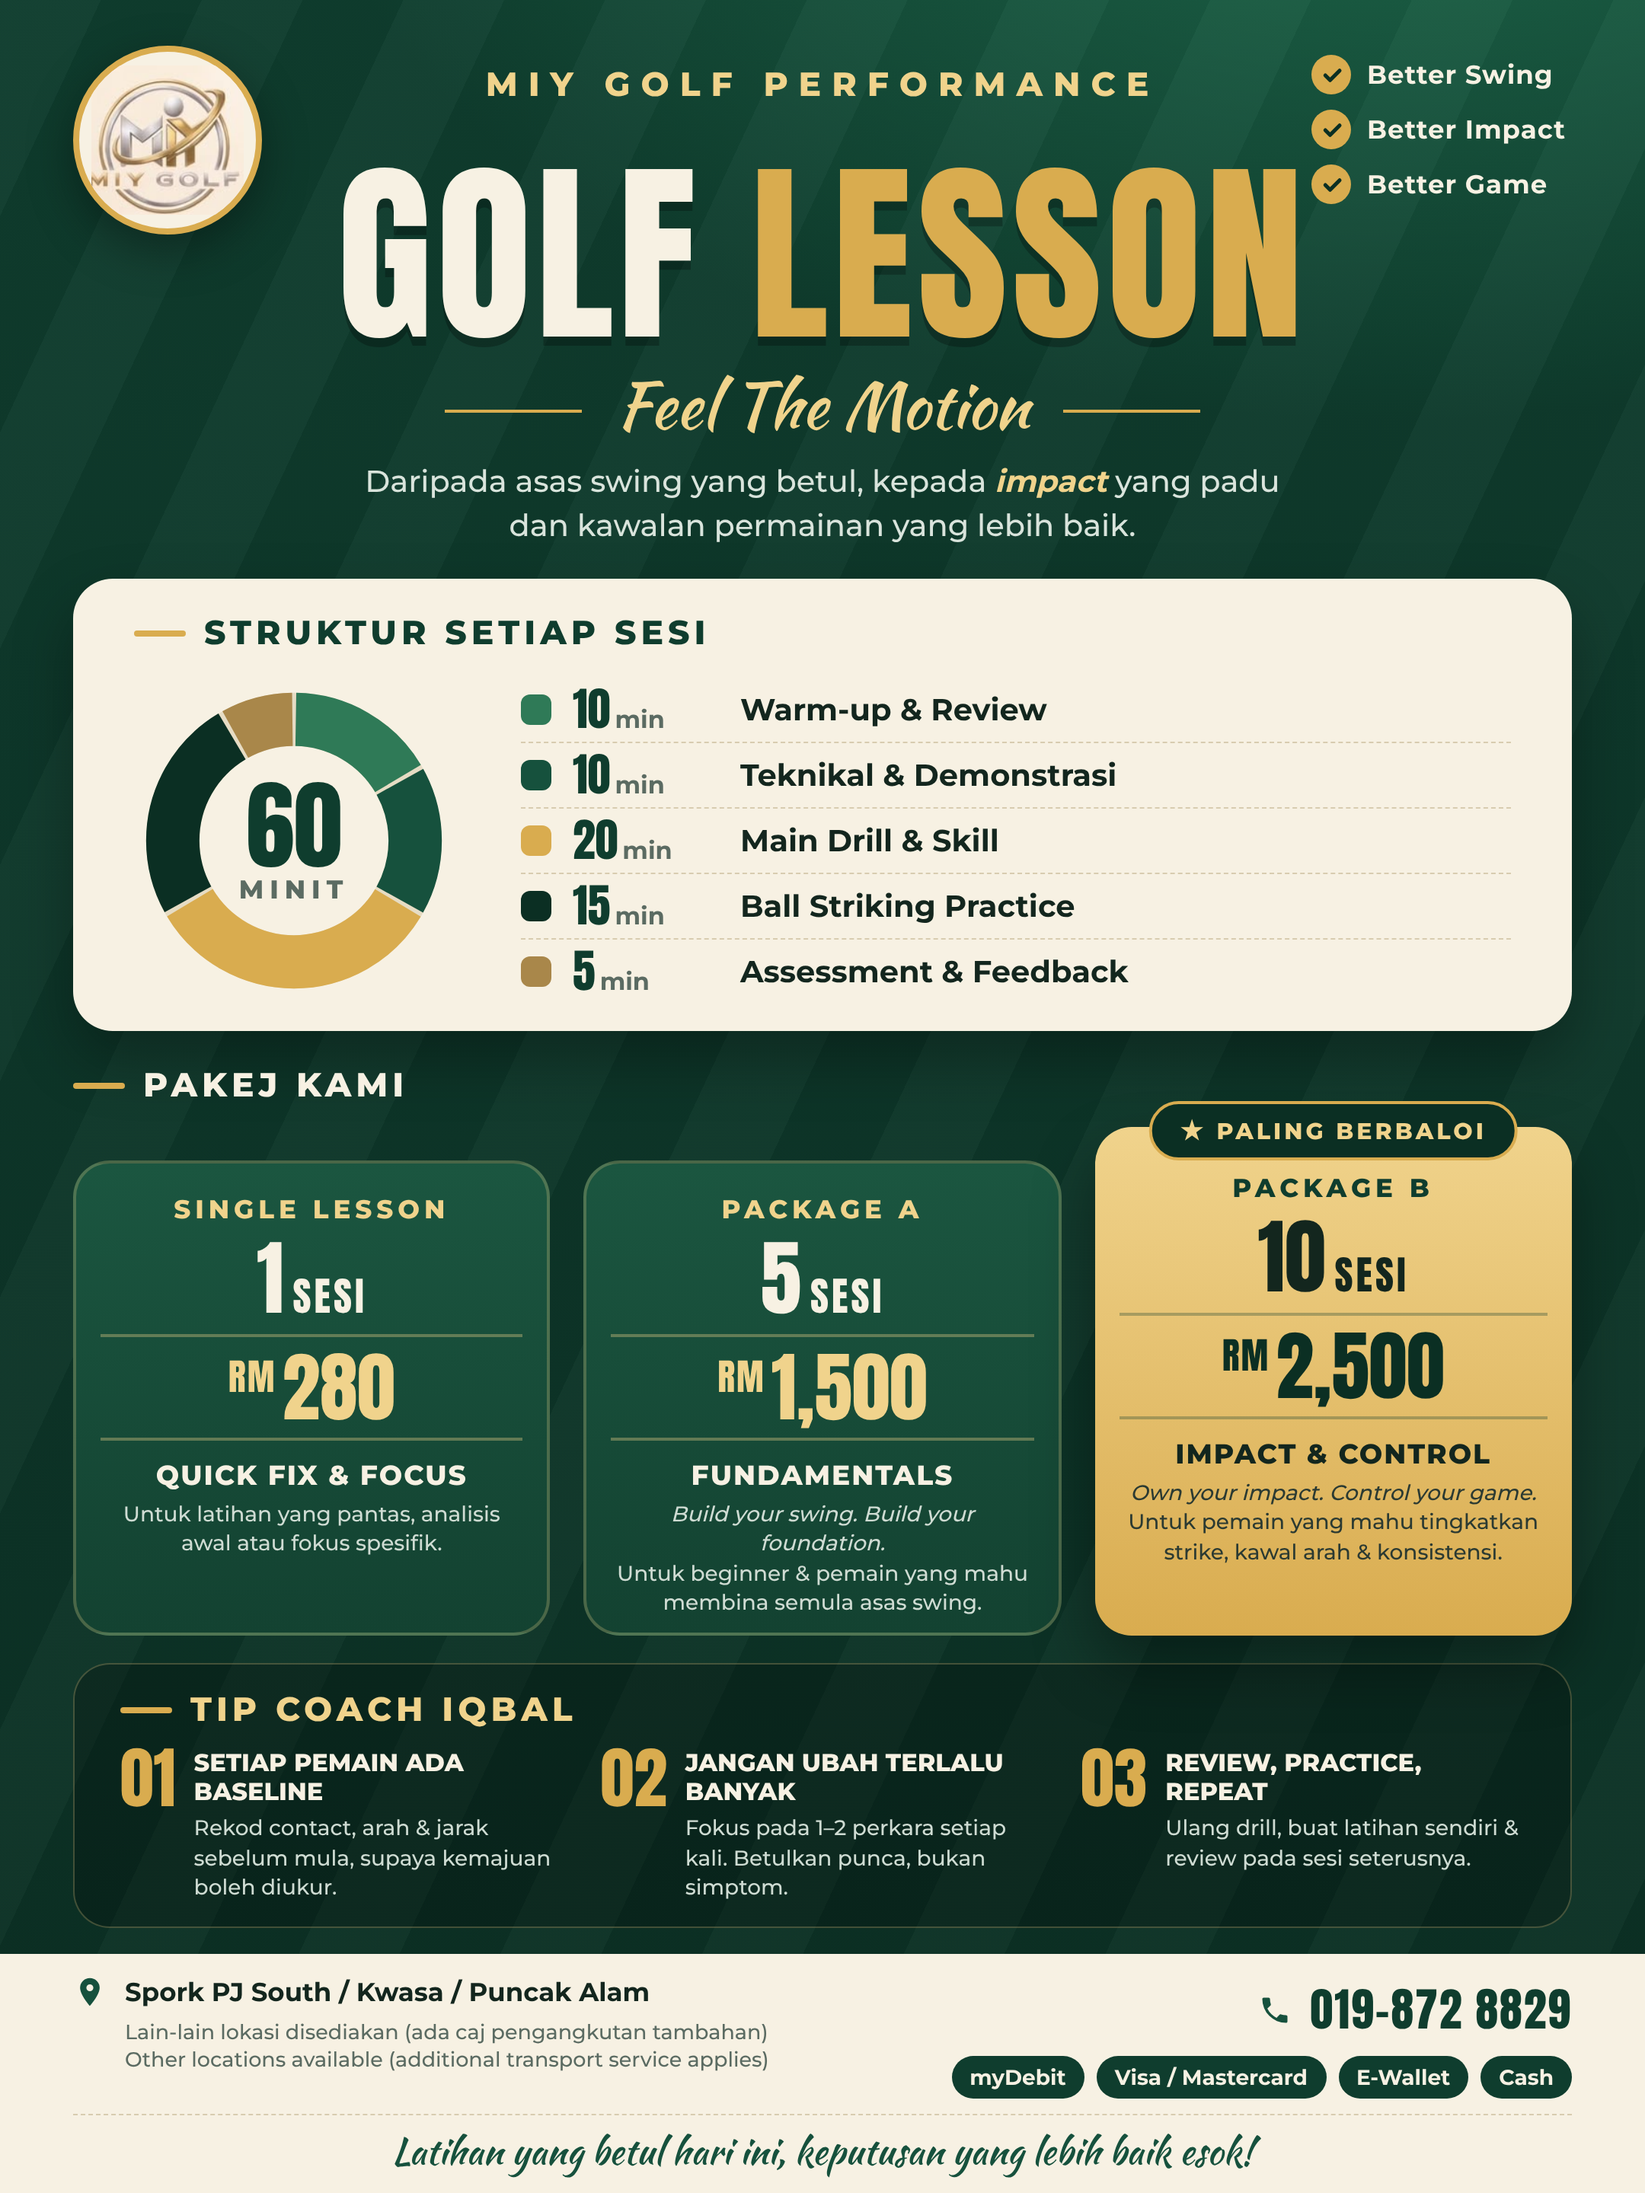
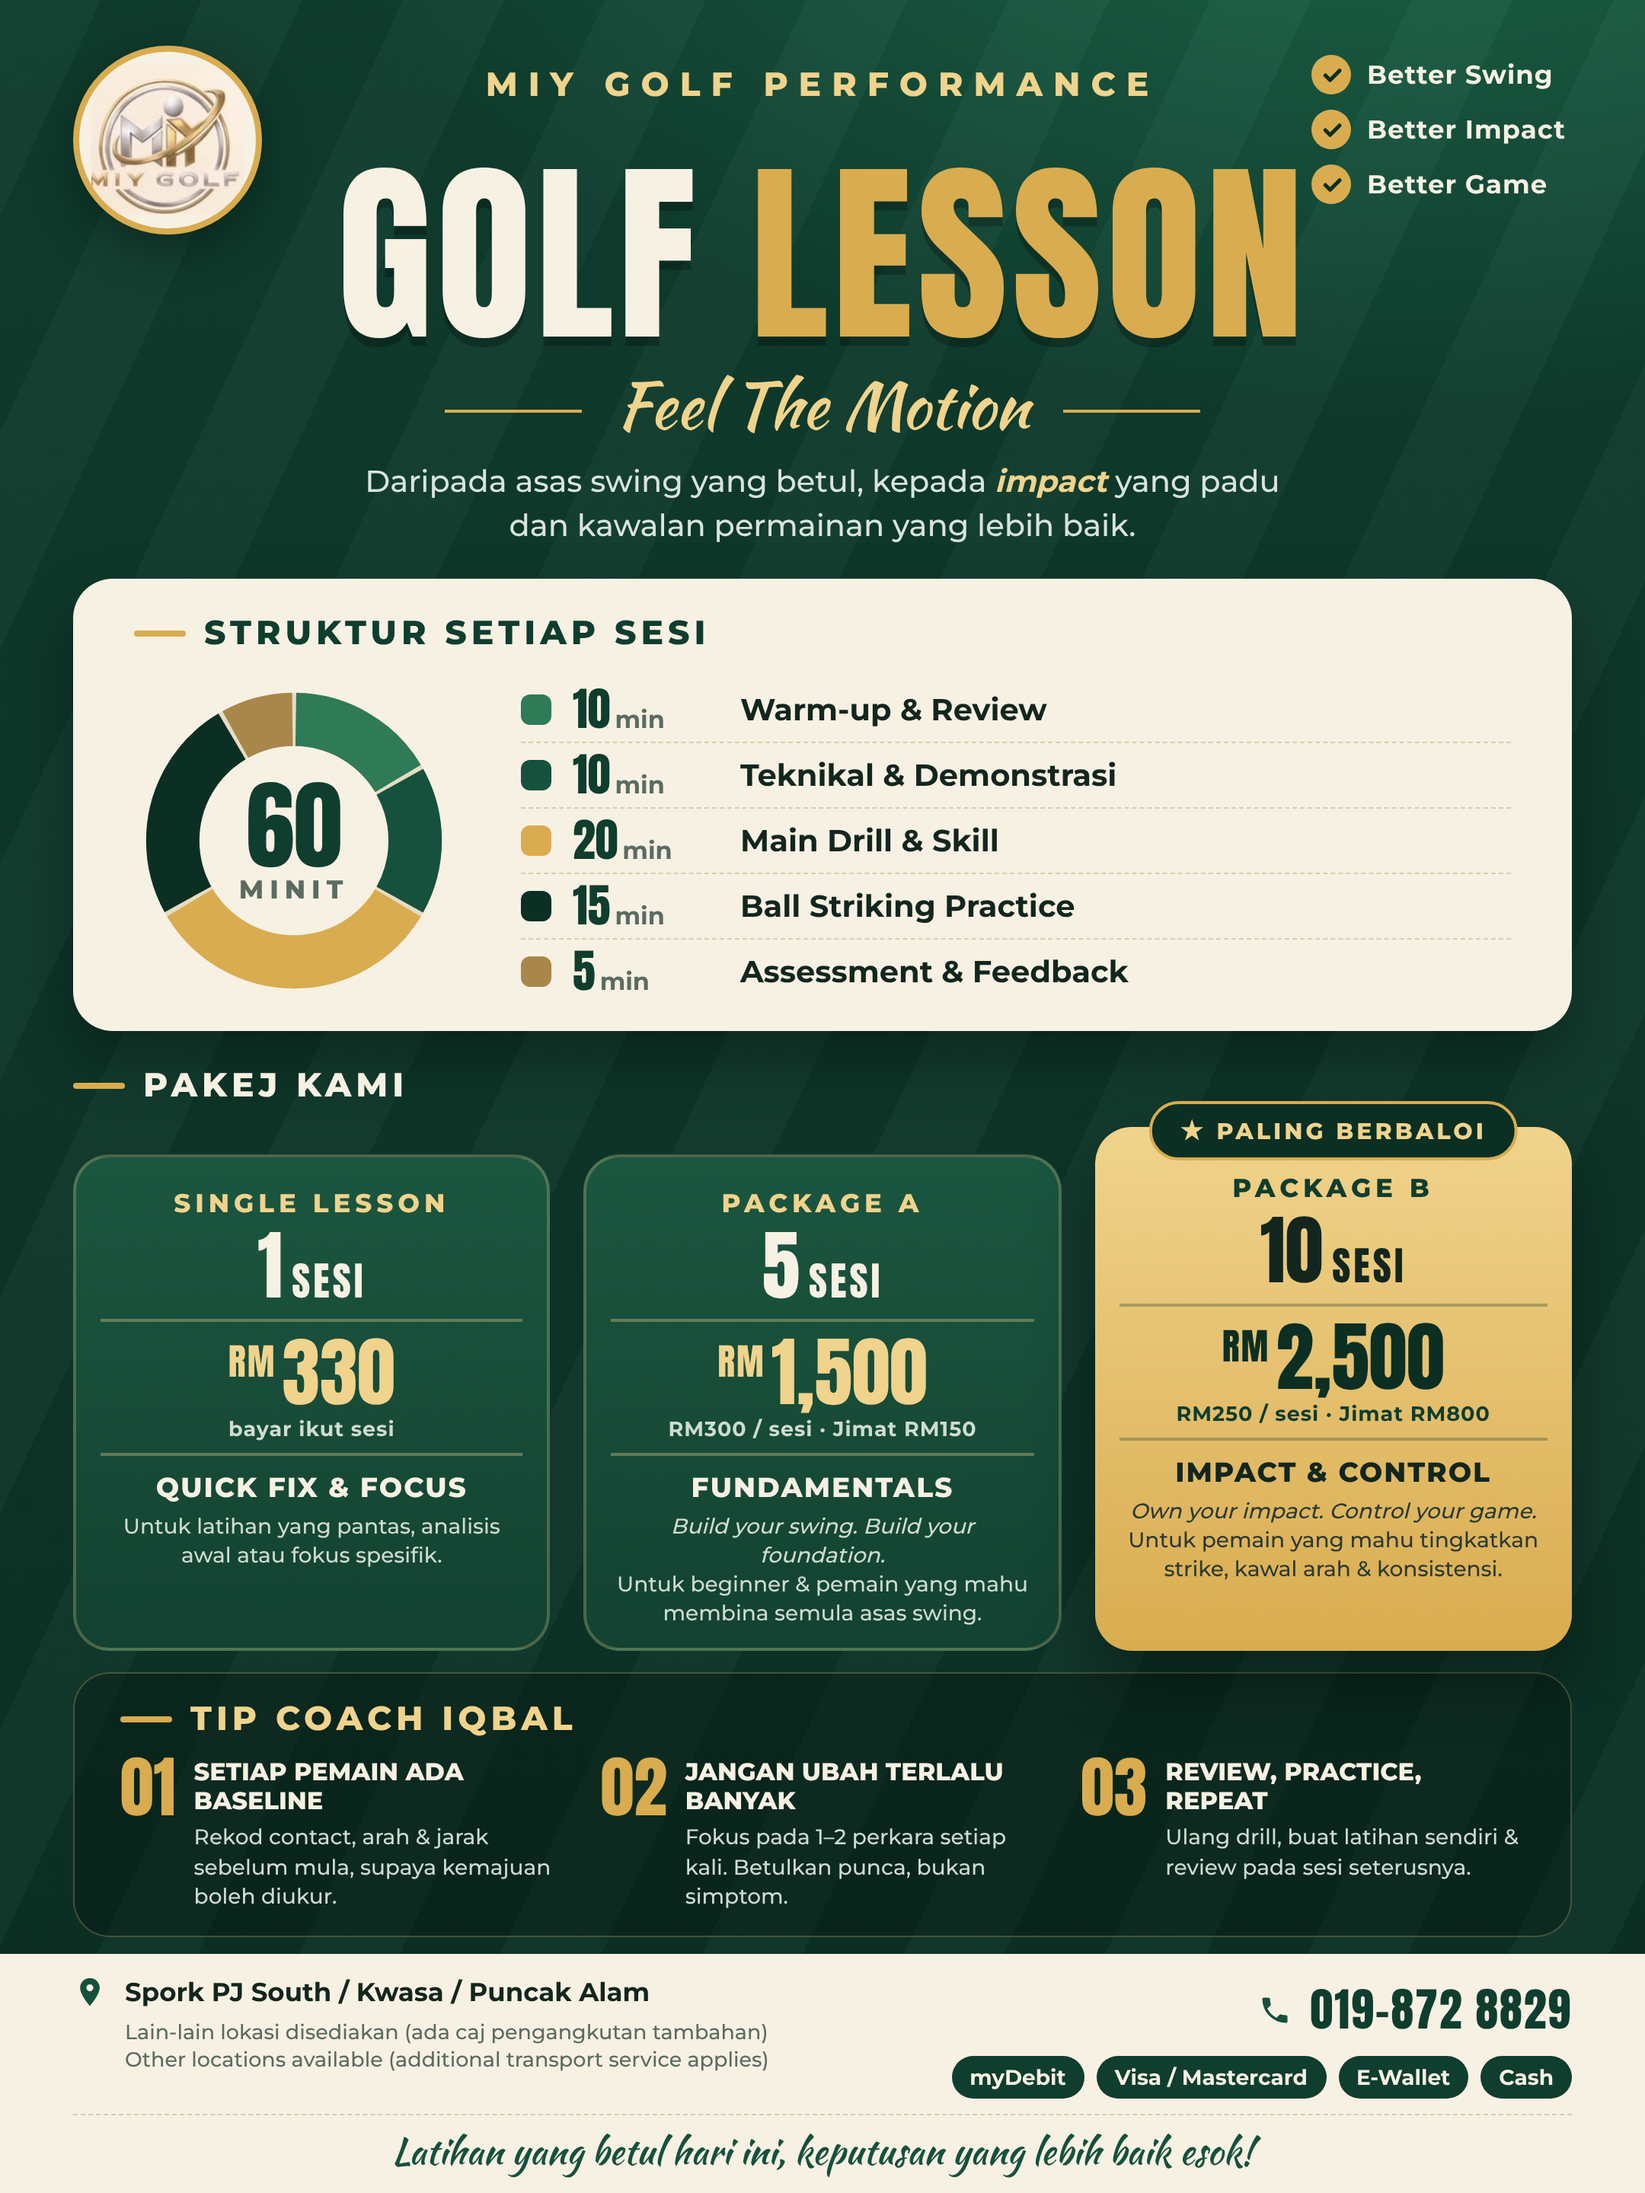
Update poster pricing: single lesson RM330, add per-session savings
Single RM330, 5 sessions RM1,500 (RM300/session, save RM150),
10 sessions RM2,500 (RM250/session, save RM800).

Claude-Session: https://claude.ai/code/session_014MDgBZbMwKcGgxmE4k56x7

diff --git a/poster/golf-lesson-v2.html b/poster/golf-lesson-v2.html
@@ -97,11 +97,11 @@
   .card{
     position:relative;border-radius:24px;padding:20px 16px 16px;text-align:center;
     background:linear-gradient(180deg,#1b5640,#134231);border:2px solid rgba(240,211,140,.25);
-    height:312px;display:flex;flex-direction:column;
+    height:326px;display:flex;flex-direction:column;
   }
   .card.best{
     background:linear-gradient(180deg,var(--gold-light),var(--gold));color:var(--ink);
-    border:0;height:334px;padding-top:30px;box-shadow:0 20px 40px rgba(0,0,0,.35);
+    border:0;height:344px;padding-top:30px;box-shadow:0 20px 40px rgba(0,0,0,.35);
   }
   .ribbon{
     position:absolute;top:-17px;left:50%;transform:translateX(-50%);white-space:nowrap;
@@ -110,20 +110,22 @@
   }
   .pkg{font-weight:800;font-size:17px;letter-spacing:3px;color:var(--gold-light);text-transform:uppercase}
   .card.best .pkg{color:var(--green-800)}
-  .count{font-family:'Anton',sans-serif;font-size:54px;line-height:1;margin-top:8px}
+  .count{font-family:'Anton',sans-serif;font-size:50px;line-height:1;margin-top:6px}
   .count small{font-size:26px;letter-spacing:2px;margin-left:6px}
   .price{
     margin:10px auto 0;padding:8px 0;border-top:2px solid rgba(240,211,140,.35);border-bottom:2px solid rgba(240,211,140,.35);
     width:100%;font-family:'Anton',sans-serif;font-size:50px;line-height:1;color:var(--gold-light);
   }
   .price sup{font-size:24px;vertical-align:top;position:relative;top:6px;margin-right:4px;letter-spacing:1px}
+  .per{display:block;font-family:'Montserrat',sans-serif;font-weight:700;font-size:13.5px;letter-spacing:.5px;color:#cfdcd3;margin-top:6px}
+  .card.best .per{color:var(--green-800)}
   .card.best .price{color:var(--green-900);border-color:rgba(15,61,46,.3)}
-  .focus{font-weight:800;font-size:18px;margin-top:12px;text-transform:uppercase;letter-spacing:1px}
+  .focus{font-weight:800;font-size:18px;margin-top:10px;text-transform:uppercase;letter-spacing:1px}
   .desc{font-size:14px;font-weight:500;line-height:1.38;margin-top:5px;color:#cfdcd3}
   .card.best .desc{color:#2b3a32}
 
   /* ---------- TIPS ---------- */
-  .tips{margin:18px 48px 0;padding:16px 30px 16px;border-radius:24px;background:rgba(0,0,0,.22);border:1.5px solid rgba(240,211,140,.25)}
+  .tips{margin:14px 48px 0;padding:16px 30px 16px;border-radius:24px;background:rgba(0,0,0,.22);border:1.5px solid rgba(240,211,140,.25)}
   .tips .label{color:var(--gold-light)}
   .tip-grid{display:grid;grid-template-columns:repeat(3,1fr);gap:24px;margin-top:12px}
   .tip{display:grid;grid-template-columns:auto 1fr;gap:12px}
@@ -198,14 +200,14 @@
       <div class="card">
         <div class="pkg">Single Lesson</div>
         <div class="count">1<small>SESI</small></div>
-        <div class="price"><sup>RM</sup>280</div>
+        <div class="price"><sup>RM</sup>330<span class="per">bayar ikut sesi</span></div>
         <div class="focus">Quick Fix &amp; Focus</div>
         <p class="desc">Untuk latihan yang pantas, analisis awal atau fokus spesifik.</p>
       </div>
       <div class="card">
         <div class="pkg">Package A</div>
         <div class="count">5<small>SESI</small></div>
-        <div class="price"><sup>RM</sup>1,500</div>
+        <div class="price"><sup>RM</sup>1,500<span class="per">RM300 / sesi · Jimat RM150</span></div>
         <div class="focus">Fundamentals</div>
         <p class="desc"><i>Build your swing. Build your foundation.</i><br>Untuk beginner &amp; pemain yang mahu membina semula asas swing.</p>
       </div>
@@ -213,7 +215,7 @@
         <div class="ribbon">★ PALING BERBALOI</div>
         <div class="pkg">Package B</div>
         <div class="count">10<small>SESI</small></div>
-        <div class="price"><sup>RM</sup>2,500</div>
+        <div class="price"><sup>RM</sup>2,500<span class="per">RM250 / sesi · Jimat RM800</span></div>
         <div class="focus">Impact &amp; Control</div>
         <p class="desc"><i>Own your impact. Control your game.</i><br>Untuk pemain yang mahu tingkatkan strike, kawal arah &amp; konsistensi.</p>
       </div>
